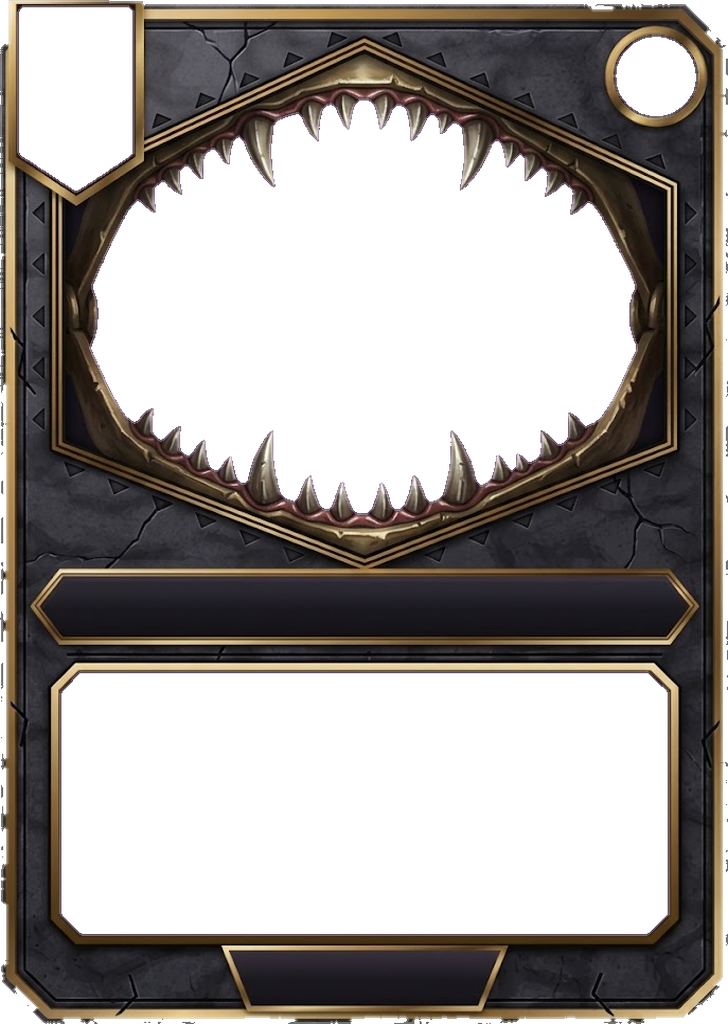
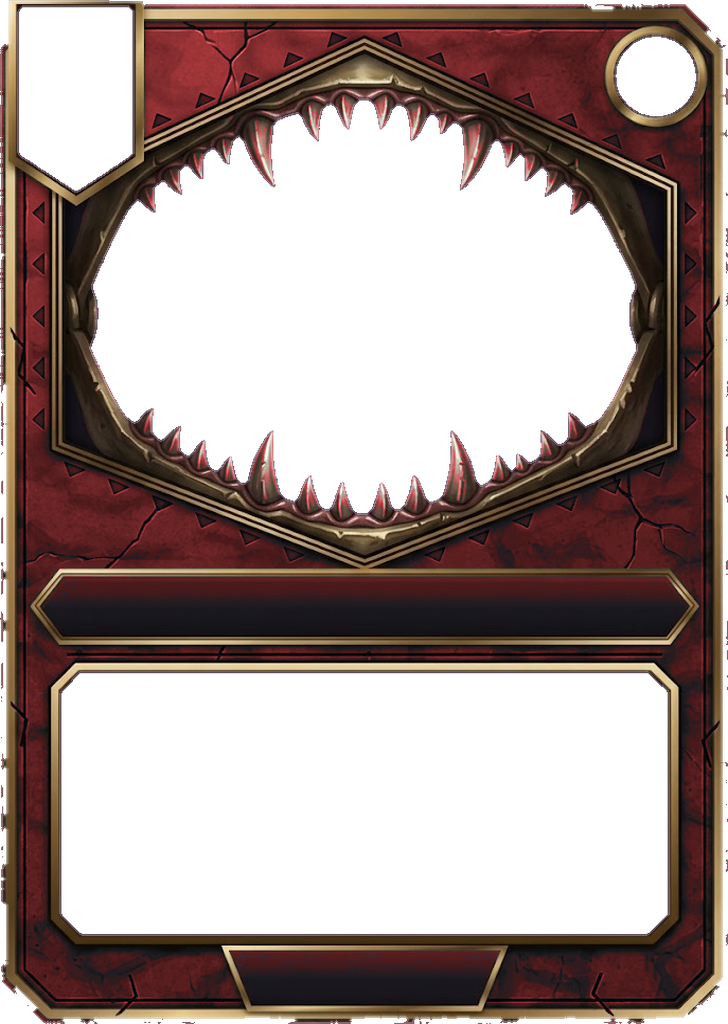
Vampire tweaks; blue spell frames and red trap frames (#81)
- Crimson Feast only goes off for an enemy minion with 2 or less Health (a bigger attacker no
  longer wastes it).
- Vampirism: on a Vampire, +2/+2; on any other minion, it becomes a Vampire with Lifesteal.
- Card frames: the grey stone is now blue on spells and red on traps (minions stay grey); gold
  trim untouched.
tools/test-vampires.mjs: 4 tests.

Claude-Session: https://claude.ai/code/session_01K62jKbwR1q4er12esREiiv

diff --git a/src/cards/vampires.js b/src/cards/vampires.js
@@ -139,11 +139,13 @@ export const VAMPIRE_CARDS = [
   {
     ...S, id: 'vampirism', name: 'Vampirism', art: '🧛',
     cost: 3,
-    text: 'One non-Vampire minion becomes a Vampire and gains Lifesteal.',
-    target: { type: 'minion', side: 'any', notTribe: 'Vampire' },
+    text: 'Give a Vampire +2/+2. Or turn any other minion into a Vampire with Lifesteal.',
+    target: { type: 'minion', side: 'any' },
     effects: [
-      { op: 'addTribe', target: 'chosen', tribe: 'Vampire' },
-      { op: 'buff', target: 'chosen', keywords: ['Lifesteal'] },
+      { op: 'buff', target: 'chosen', attack: 2, health: 2, if: { subject: 'chosen', tribe: 'Vampire' }, else: [
+        { op: 'addTribe', target: 'chosen', tribe: 'Vampire' },
+        { op: 'buff', target: 'chosen', keywords: ['Lifesteal'] },
+      ] },
     ],
   },
   {
@@ -242,10 +244,10 @@ export const VAMPIRE_CARDS = [
   {
     ...T, id: 'crimson_feast', name: 'Crimson Feast', art: '🍖',
     cost: 2,
-    text: 'When an enemy minion damages your Hero, destroy that minion if it has 2 or less Health and restore 2 Health to your Hero.',
-    // Q: the heal happens even if the minion has more than 2 Health.
-    trap: { on: 'damageDealt', filter: { source: 'enemyMinion', target: 'friendlyHero' }, effects: [
-      { op: 'destroy', target: 'eventSource', if: { subject: 'eventSource', healthAtMost: 2 } },
+    text: 'When an enemy minion with 2 or less Health damages your Hero, destroy it and restore 2 Health to your Hero.',
+    // Only a minion it can destroy sets it off (a bigger attacker no longer wastes it).
+    trap: { on: 'damageDealt', filter: { source: { side: 'enemy', maxHealth: 2 }, target: 'friendlyHero' }, effects: [
+      { op: 'destroy', target: 'eventSource' },
       { op: 'heal', target: 'friendlyHero', amount: 2 },
     ] },
   },
